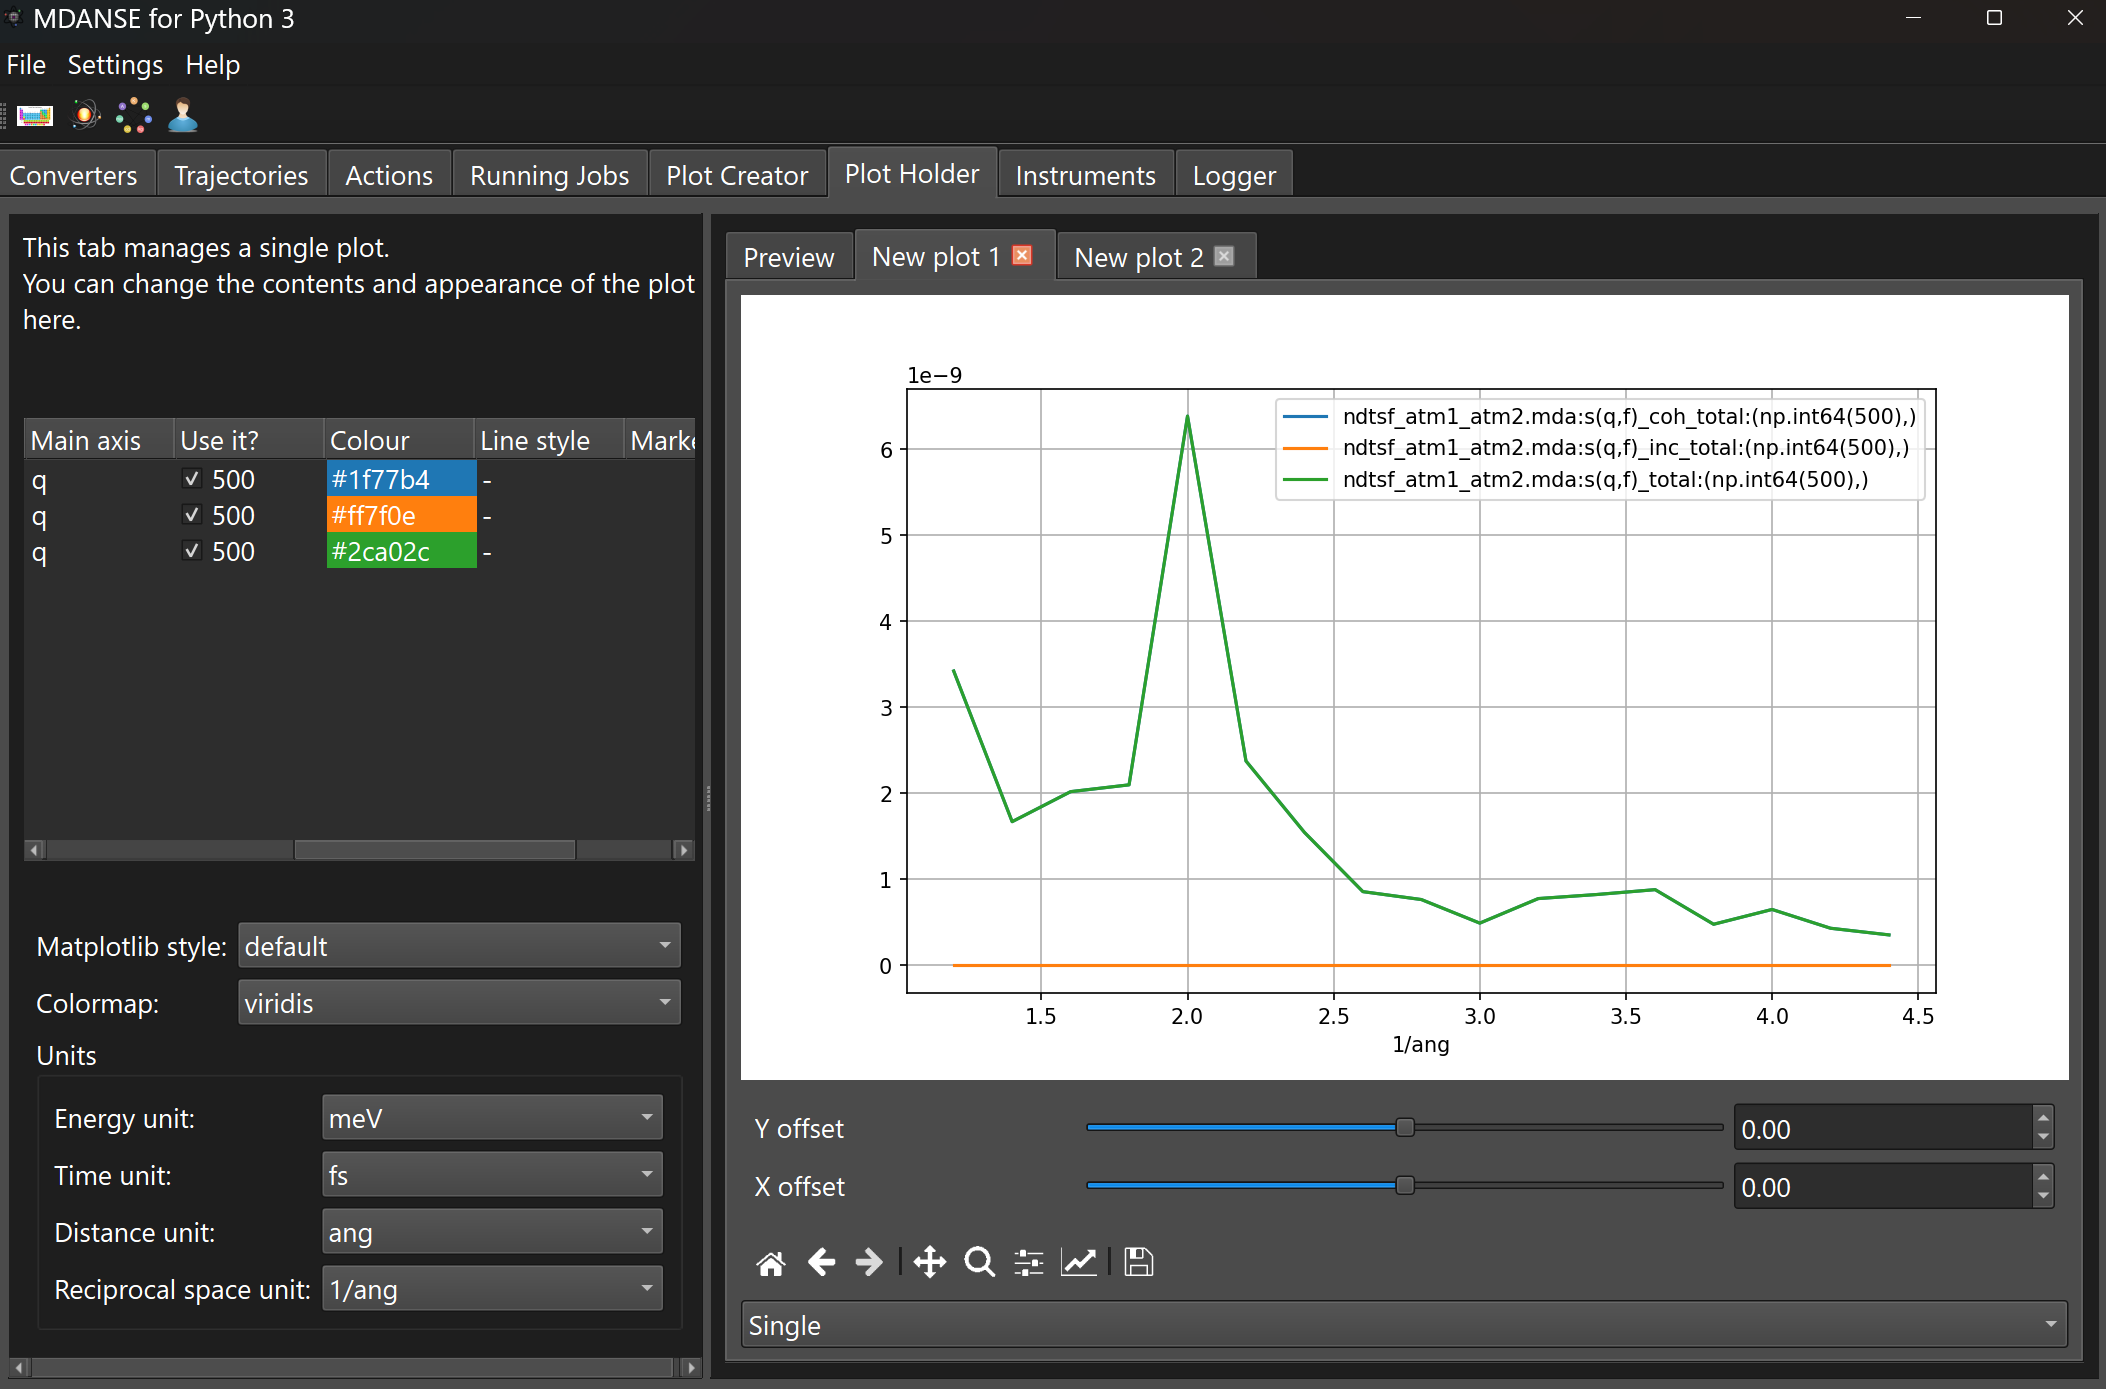
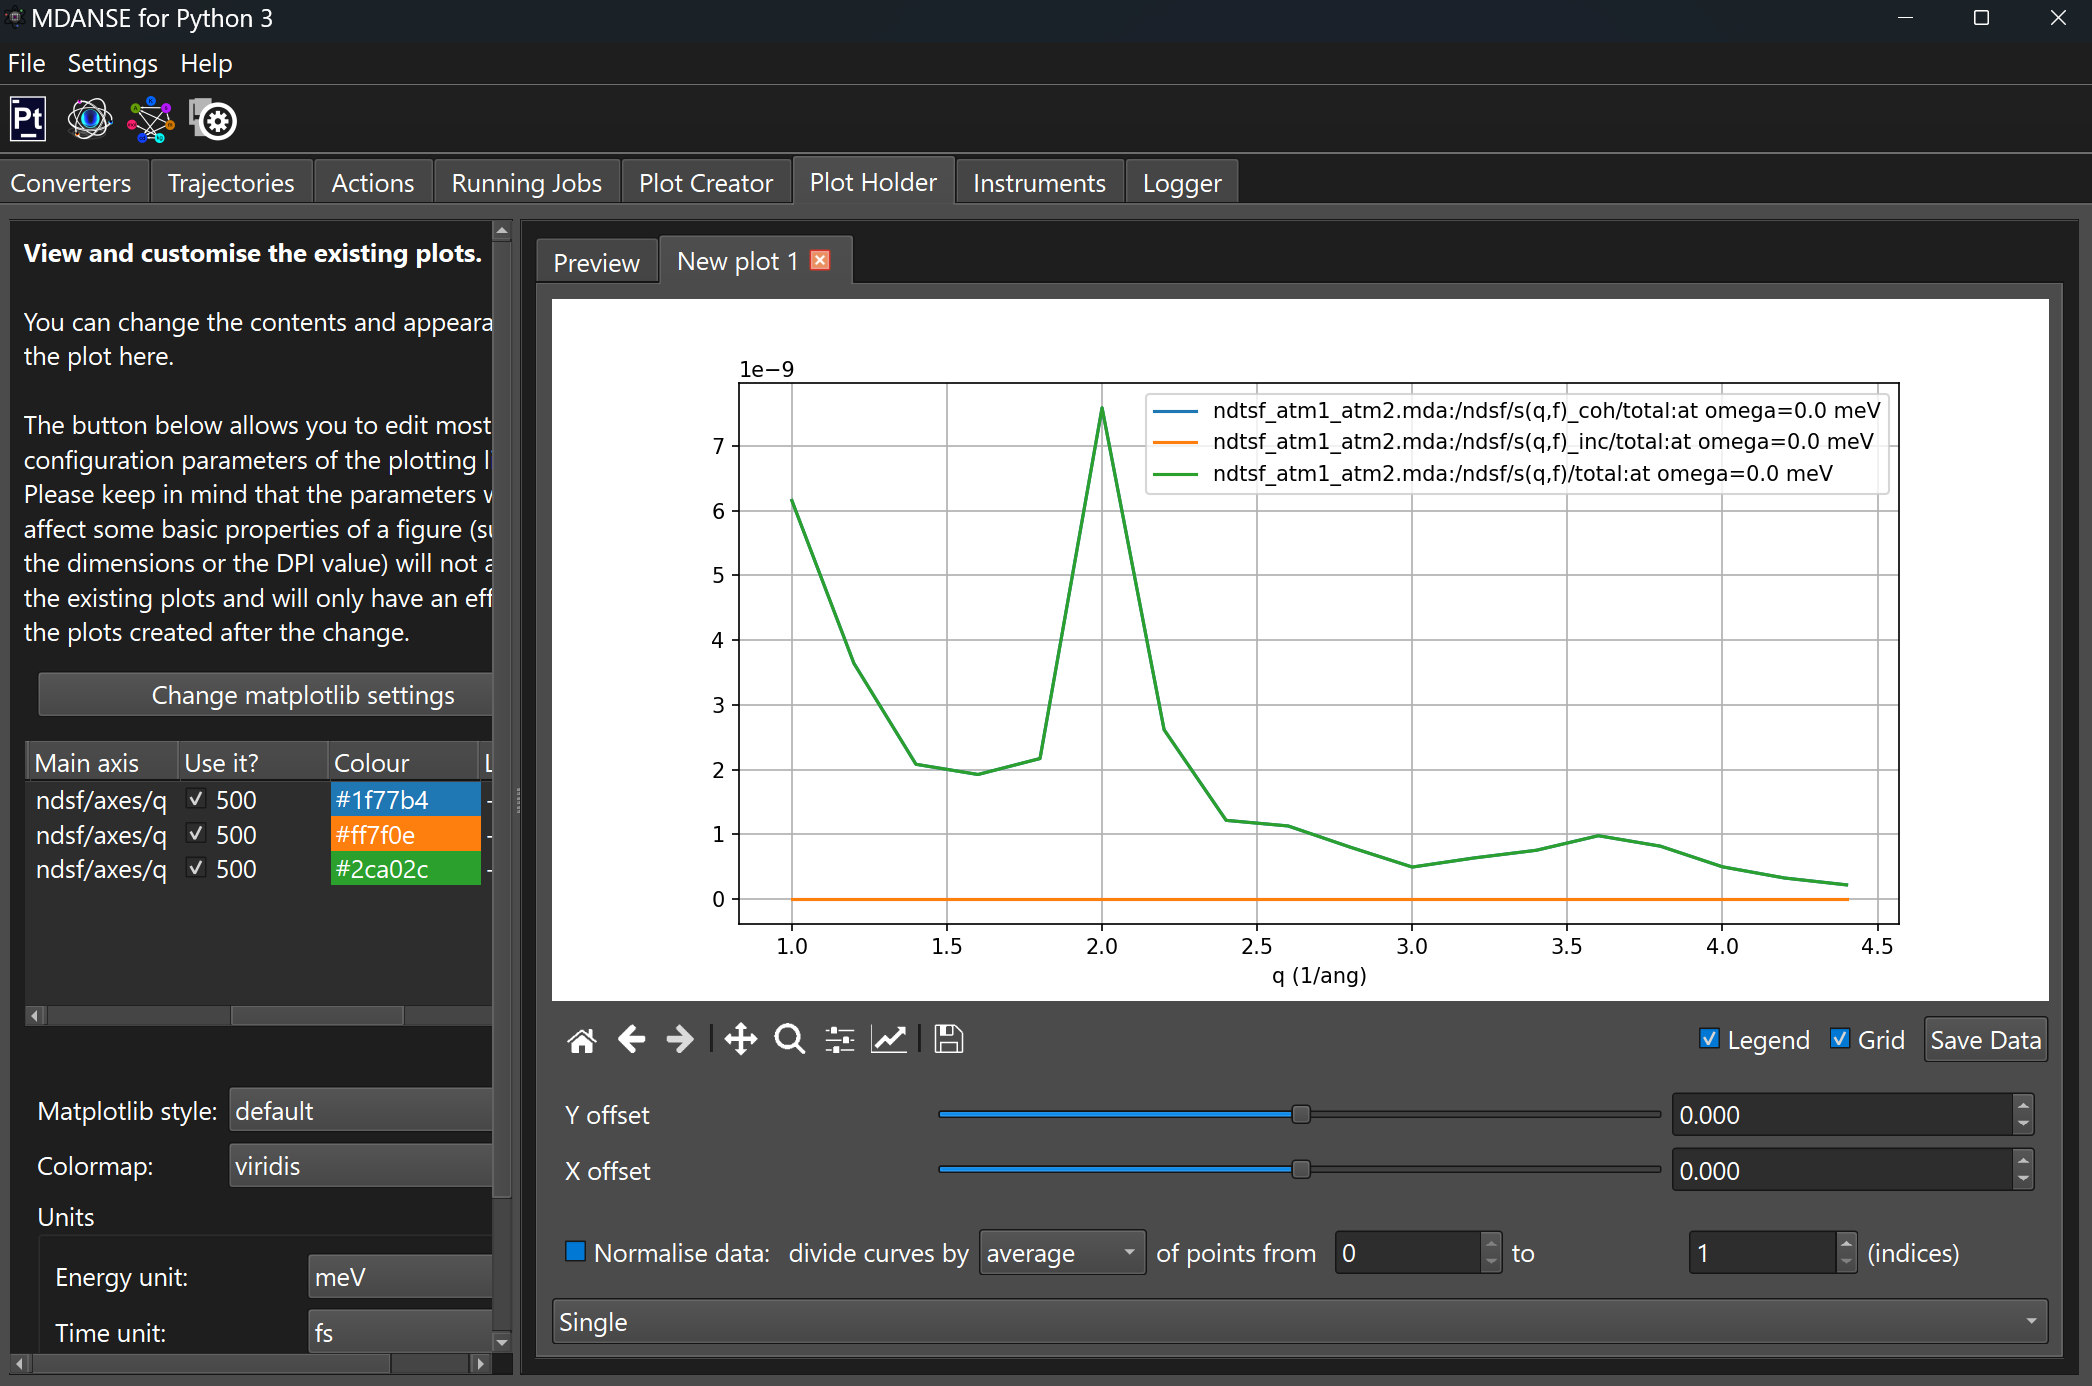
update tutorial 3 and 4. (#23)

Changed region(s): [[0.0, 0.0, 1.0, 0.9928], [0.435, 0.2482, 0.4661, 0.2792]]

diff --git a/tutorials/tutorial4-coherent-and-incoherent-scattering/mdanse_inputs/script5_disf.py b/tutorials/tutorial4-coherent-and-incoherent-scattering/mdanse_inputs/script5_disf.py
@@ -27,10 +27,12 @@ parameters_atm1_atm2 = {
     "q_vectors": (
         "SphericalLatticeQVectors",
         {
+            "force_equal_weights": False,
+            "n_samples": 100000,
+            "n_vectors": 100,
             "seed": 1,
             "shells": [10.0, 44.0, 2.0],
-            "n_vectors": 1000,
-            "width": 0.2,
+            "width": 0.25
         },
     ),  # q_vectors
     "running_mode": ("single-core",),  # running_mode
@@ -51,10 +53,12 @@ parameters_atm1atm2 = {
     "q_vectors": (
         "SphericalLatticeQVectors",
         {
+            "force_equal_weights": False,
+            "n_samples": 100000,
+            "n_vectors": 100,
             "seed": 1,
             "shells": [10.0, 44.0, 2.0],
-            "n_vectors": 1000,
-            "width": 0.2,
+            "width": 0.25
         },
     ),  # q_vectors
     "running_mode": ("single-core",),  # running_mode

diff --git a/tutorials/tutorial4-coherent-and-incoherent-scattering/mdanse_inputs/script6_dcsf.py b/tutorials/tutorial4-coherent-and-incoherent-scattering/mdanse_inputs/script6_dcsf.py
@@ -27,10 +27,12 @@ parameters_atm1_atm2 = {
     "q_vectors": (
         "SphericalLatticeQVectors",
         {
+            "force_equal_weights": False,
+            "n_samples": 100000,
+            "n_vectors": 100,
             "seed": 1,
             "shells": [10.0, 44.0, 2.0],
-            "n_vectors": 1000,
-            "width": 0.2,
+            "width": 0.25
         },
     ),  # q_vectors
     "running_mode": ("single-core",),  # running_mode
@@ -51,10 +53,12 @@ parameters_atm1atm2 = {
     "q_vectors": (
         "SphericalLatticeQVectors",
         {
+            "force_equal_weights": False,
+            "n_samples": 100000,
+            "n_vectors": 100,
             "seed": 1,
             "shells": [10.0, 44.0, 2.0],
-            "n_vectors": 1000,
-            "width": 0.2,
+            "width": 0.25
         },
     ),  # q_vectors
     "running_mode": ("single-core",),  # running_mode

diff --git a/tutorials/tutorial3-quasielastic-neutron-scattering/mdanse_inputs/script2_disf.py b/tutorials/tutorial3-quasielastic-neutron-scattering/mdanse_inputs/script2_disf.py
@@ -36,7 +36,7 @@ parameters = {
         {
             "seed": 0,
             "shells": [10.0, 44.0, 2.0],
-            "n_vectors": 1000,
+            "n_vectors": 100,
             "width": 0.0,
         },
     ),  # q_vectors

diff --git a/tutorials/tutorial3-quasielastic-neutron-scattering/README.md b/tutorials/tutorial3-quasielastic-neutron-scattering/README.md
@@ -129,7 +129,7 @@ trajectory will be in `mdanse_outputs/converted_trajectory.mdt`.
 ## Calculated the DISF and GDISF
 Open and select the `converted_trajectory.mdt` from tutorial 2 and then select the 
 DynamicIncoherentStructureFactor job and set the `q_vectors` setting to
-`SphericalQVectors`, shells to `(10, 44, 2)`, `n_vectors` to `1000` and `width` 
+`SphericalQVectors`, shells to `(10, 44, 2)`, `n_vectors` to `100` and `width` 
 to `0` and the `weights` setting to `equal`. This setting will mean 
 that $q$ values from $1.0$  to $4.4$ Å in steps of $0.2$ Å will be calculated. 
 To speed the calculation up, 
